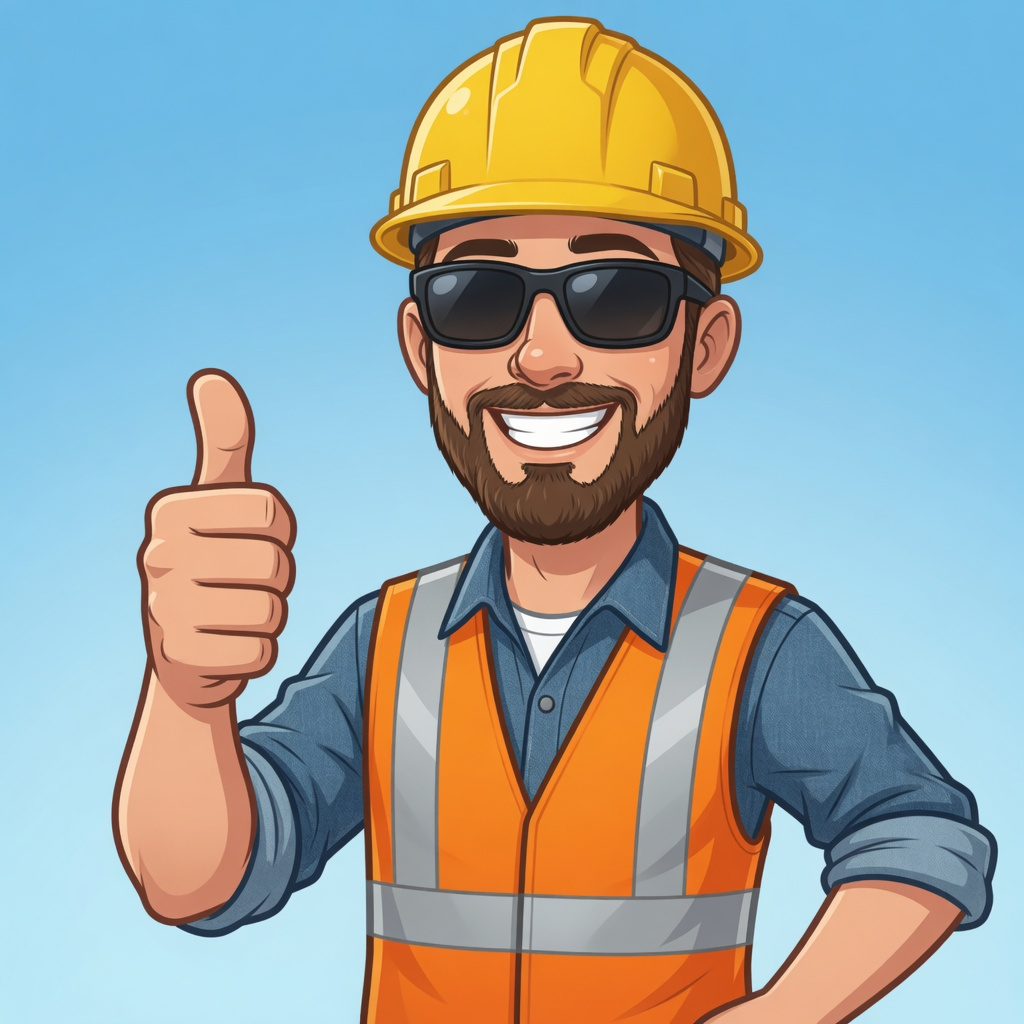
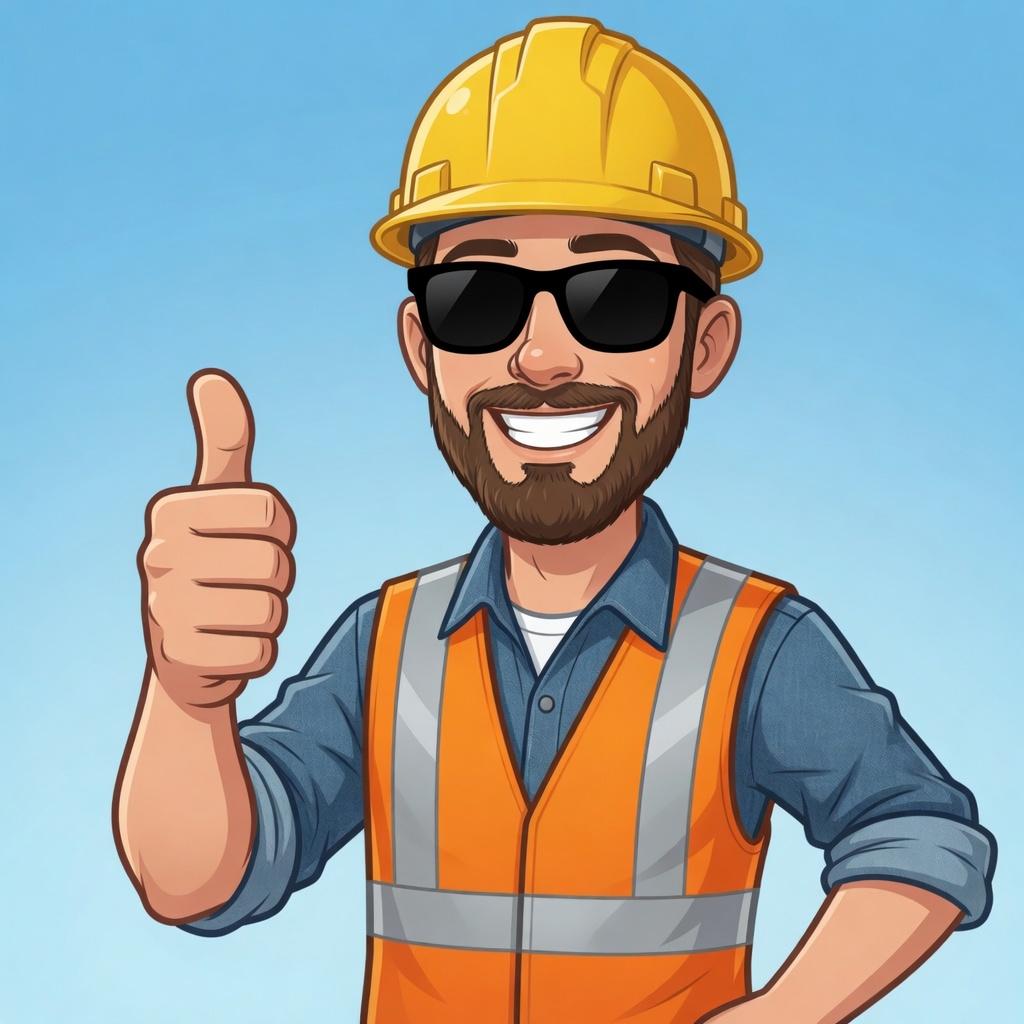
Make Shaun celebration a temporary pop-up with solid sunglasses
Overlay pops and auto-dismisses like balloons; art uses opaque shades only.

Changed region(s): [[0.375, 0.25, 0.7188, 0.3438]]

diff --git a/app.py b/app.py
@@ -2,10 +2,12 @@
 
 from __future__ import annotations
 
+import base64
 from datetime import date, datetime, timedelta
 from pathlib import Path
 
 import streamlit as st
+import streamlit.components.v1 as components
 
 import auth
 import db
@@ -15,6 +17,9 @@ ASSETS_DIR = Path(__file__).parent / "assets"
 LOGO_PATH = ASSETS_DIR / "in-spec-logo.png"
 SHAUN_CELEBRATE_GIF = ASSETS_DIR / "shaun_thumbs_up.gif"
 SHAUN_CELEBRATE_STILL = ASSETS_DIR / "shaun_thumbs_up.jpg"
+
+# How long the pop-up stays on screen (ms), similar feel to balloons
+CELEBRATION_MS = 3800
 
 st.set_page_config(
     page_title="In-Spec Team Work Journal",
@@ -47,18 +52,111 @@ def render_header(title: str, caption: str | None = None) -> None:
 
 
 def celebrate_entry_saved() -> None:
-    """Show cartoon Shaun thumbs-up animation instead of balloons."""
+    """Pop-up cartoon Shaun thumbs-up, then auto-dismiss (like balloons)."""
     media = SHAUN_CELEBRATE_GIF if SHAUN_CELEBRATE_GIF.exists() else SHAUN_CELEBRATE_STILL
     if not media.exists():
         return
-    left, mid, right = st.columns([1, 2, 1])
-    with mid:
-        st.image(str(media), use_container_width=True)
-        st.markdown(
-            "<p style='text-align:center; font-size:1.15rem; margin-top:0.25rem;'>"
-            "👍 Nice work — entry saved!</p>",
-            unsafe_allow_html=True,
-        )
+
+    raw = media.read_bytes()
+    b64 = base64.b64encode(raw).decode("ascii")
+    mime = "image/gif" if media.suffix.lower() == ".gif" else "image/jpeg"
+    duration_ms = CELEBRATION_MS
+
+    # Inject into parent page so it covers the app and removes itself (balloons-style).
+    # Falls back to an in-component overlay if parent access is blocked.
+    components.html(
+        f"""
+<!DOCTYPE html>
+<html>
+<head>
+<meta charset="utf-8" />
+<style>
+  html, body {{ margin: 0; padding: 0; background: transparent; overflow: hidden; }}
+</style>
+</head>
+<body>
+<script>
+(function () {{
+  const DURATION = {duration_ms};
+  const src = "data:{mime};base64,{b64}";
+
+  function buildOverlay(doc) {{
+    const existing = doc.getElementById("shaun-celebration-overlay");
+    if (existing) existing.remove();
+
+    const style = doc.createElement("style");
+    style.id = "shaun-celebration-style";
+    style.textContent = `
+      @keyframes shaunCelebInOut {{
+        0%   {{ opacity: 0; transform: scale(0.25) translateY(50px); }}
+        12%  {{ opacity: 1; transform: scale(1.08) translateY(0); }}
+        22%  {{ transform: scale(1) translateY(0); }}
+        78%  {{ opacity: 1; transform: scale(1) translateY(0); }}
+        100% {{ opacity: 0; transform: scale(0.9) translateY(-24px); }}
+      }}
+      #shaun-celebration-overlay {{
+        position: fixed !important;
+        inset: 0 !important;
+        z-index: 2147483646 !important;
+        display: flex !important;
+        flex-direction: column;
+        align-items: center;
+        justify-content: center;
+        background: rgba(10, 25, 40, 0.42);
+        animation: shaunCelebInOut ${{DURATION}}ms ease-in-out forwards;
+        pointer-events: none !important;
+        font-family: system-ui, -apple-system, Segoe UI, Roboto, sans-serif;
+      }}
+      #shaun-celebration-overlay img {{
+        width: min(300px, 72vw);
+        height: auto;
+        border-radius: 18px;
+        box-shadow: 0 16px 48px rgba(0,0,0,0.4);
+        background: #fff;
+      }}
+      #shaun-celebration-overlay .shaun-caption {{
+        margin-top: 14px;
+        color: #fff;
+        font-size: 1.2rem;
+        font-weight: 650;
+        text-shadow: 0 2px 10px rgba(0,0,0,0.55);
+        text-align: center;
+      }}
+    `;
+
+    const oldStyle = doc.getElementById("shaun-celebration-style");
+    if (oldStyle) oldStyle.remove();
+    doc.head.appendChild(style);
+
+    const overlay = doc.createElement("div");
+    overlay.id = "shaun-celebration-overlay";
+    overlay.innerHTML = `
+      <img src="${{src}}" alt="Shaun thumbs up" />
+      <div class="shaun-caption">👍 Nice work — entry saved!</div>
+    `;
+    doc.body.appendChild(overlay);
+
+    setTimeout(function () {{
+      const el = doc.getElementById("shaun-celebration-overlay");
+      if (el) el.remove();
+      const st = doc.getElementById("shaun-celebration-style");
+      if (st) st.remove();
+    }}, DURATION + 80);
+  }}
+
+  try {{
+    buildOverlay(window.parent.document);
+  }} catch (e) {{
+    buildOverlay(document);
+  }}
+}})();
+</script>
+</body>
+</html>
+        """,
+        height=1,
+        width=1,
+    )
 
 
 def bootstrap() -> None:
